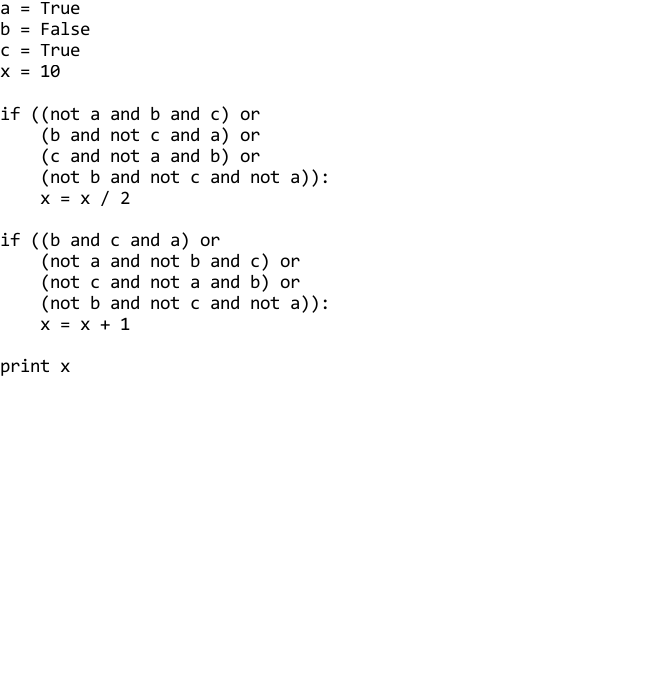
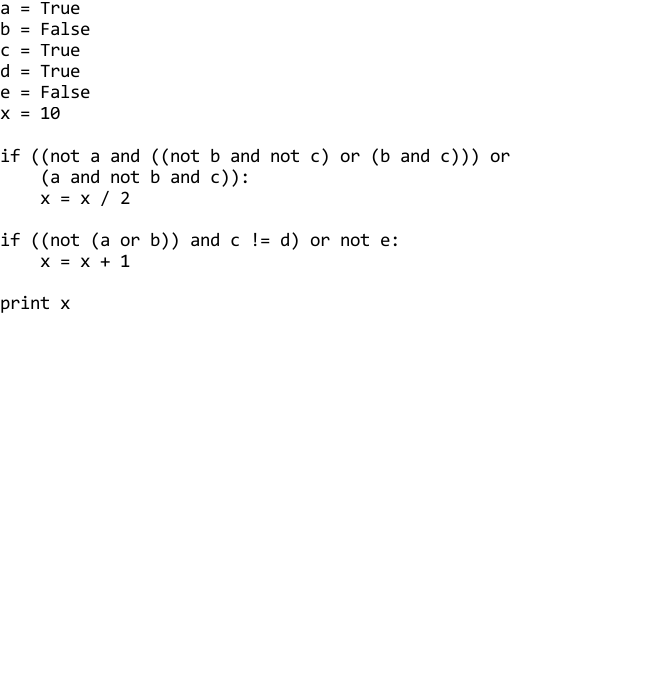
Updated boolean programs

Changed region(s): [[0.0, 0.09, 0.7761, 0.27], [0.0, 0.33, 0.597, 0.48], [0.0, 0.51, 0.1194, 0.54]]

diff --git a/programs/boolean_easy.py b/programs/boolean_easy.py
@@ -1,18 +1,17 @@
 a = True
 b = False
 c = True
+d = True
+e = False
 x = 10
 
-if ((not a and not b and c) or
-    (not c and b and not a) or
-    (not c and not b and not a) or
-    (b and not a and c)):
+if ((not a and not b and not c) or
+    (not a and b and c) or
+    (a and not b and c)):
     x = x / 2
 
-if ((a and c and b) or
-    (not b and not a and c) or
-    (not c and not b and not a) or
-    (a and b and not c)):
+f = a or b
+if (c != d or not f or not e):
     x = x + 1
 
 print x

diff --git a/programs/boolean_hard.py b/programs/boolean_hard.py
@@ -1,18 +1,15 @@
 a = True
 b = False
 c = True
+d = True
+e = False
 x = 10
 
-if ((not a and b and c) or
-    (b and not c and a) or
-    (c and not a and b) or
-    (not b and not c and not a)):
+if ((not a and ((not b and not c) or (b and c))) or
+    (a and not b and c)):
     x = x / 2
 
-if ((b and c and a) or
-    (not a and not b and c) or
-    (not c and not a and b) or
-    (not b and not c and not a)):
+if ((not (a or b)) and c != d) or not e:
     x = x + 1
 
 print x

diff --git a/eyecode2/app/__init__.py b/eyecode2/app/__init__.py
@@ -182,7 +182,7 @@ class QualificationResults(db.Model):
 # --------------------------------------------------
 
 program_versions = {
-    #"boolean"    : ["easy", "hard"],
+    "boolean"    : ["easy", "hard"],
     "basketball" : ["iterative", "recursive", "iterative_flipped"],
     "between"    : ["functions", "inline"],
     "counting"   : ["done", "other"],
